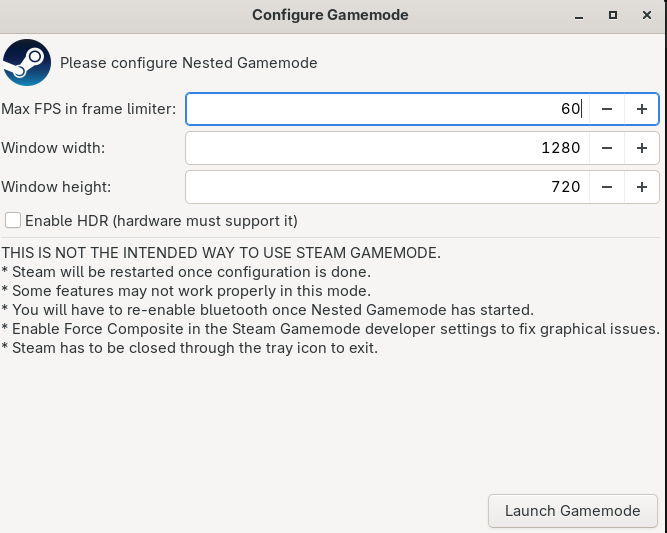
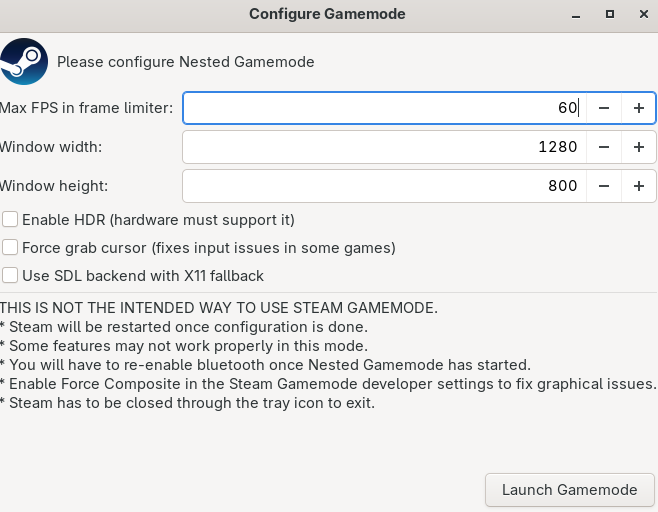
update readme

diff --git a/README.md b/README.md
@@ -77,7 +77,7 @@ sudo ./uninstall.sh --system  # removes system-wide install
 ## Usage
 
 - Launch `Nested Steam Gamemode` from your desktop menu, or run `gamemode-nested`.
-- Configure frame limiter, window size, and HDR support via the dialog.
+- Configure frame limiter, window size, HDR, cursor grab, and SDL backend fallback via the dialog.
 - Steam is stopped if it is already running, then restarted inside Gamescope.
 
 To customize the Steam executable or arguments, set `STEAM_EXECUTABLE` or `STEAM_ARGS` before running the launcher.
@@ -92,7 +92,7 @@ NESTED_DEBUG=1 gamemode-nested
 
 The launcher echoes the full Gamescope command so you can replay it manually for troubleshooting.
 
-On X11 sessions the launcher automatically appends `--backend sdl --nested` to Gamescope; set `GAMESCOPE_CMD` yourself to override the defaults entirely.
+By default the launcher runs `gamescope -e --adaptive-sync` and enables MangoHud's `mangoapp` overlay automatically when present. Use the SDL fallback toggle in the UI for stubborn X11 sessions, or set `GAMESCOPE_CMD` yourself to override the defaults entirely.
 
 Example: `GAMESCOPE_CMD="gamescope -e --adaptive-sync --backend sdl" gamemode-nested`
 
